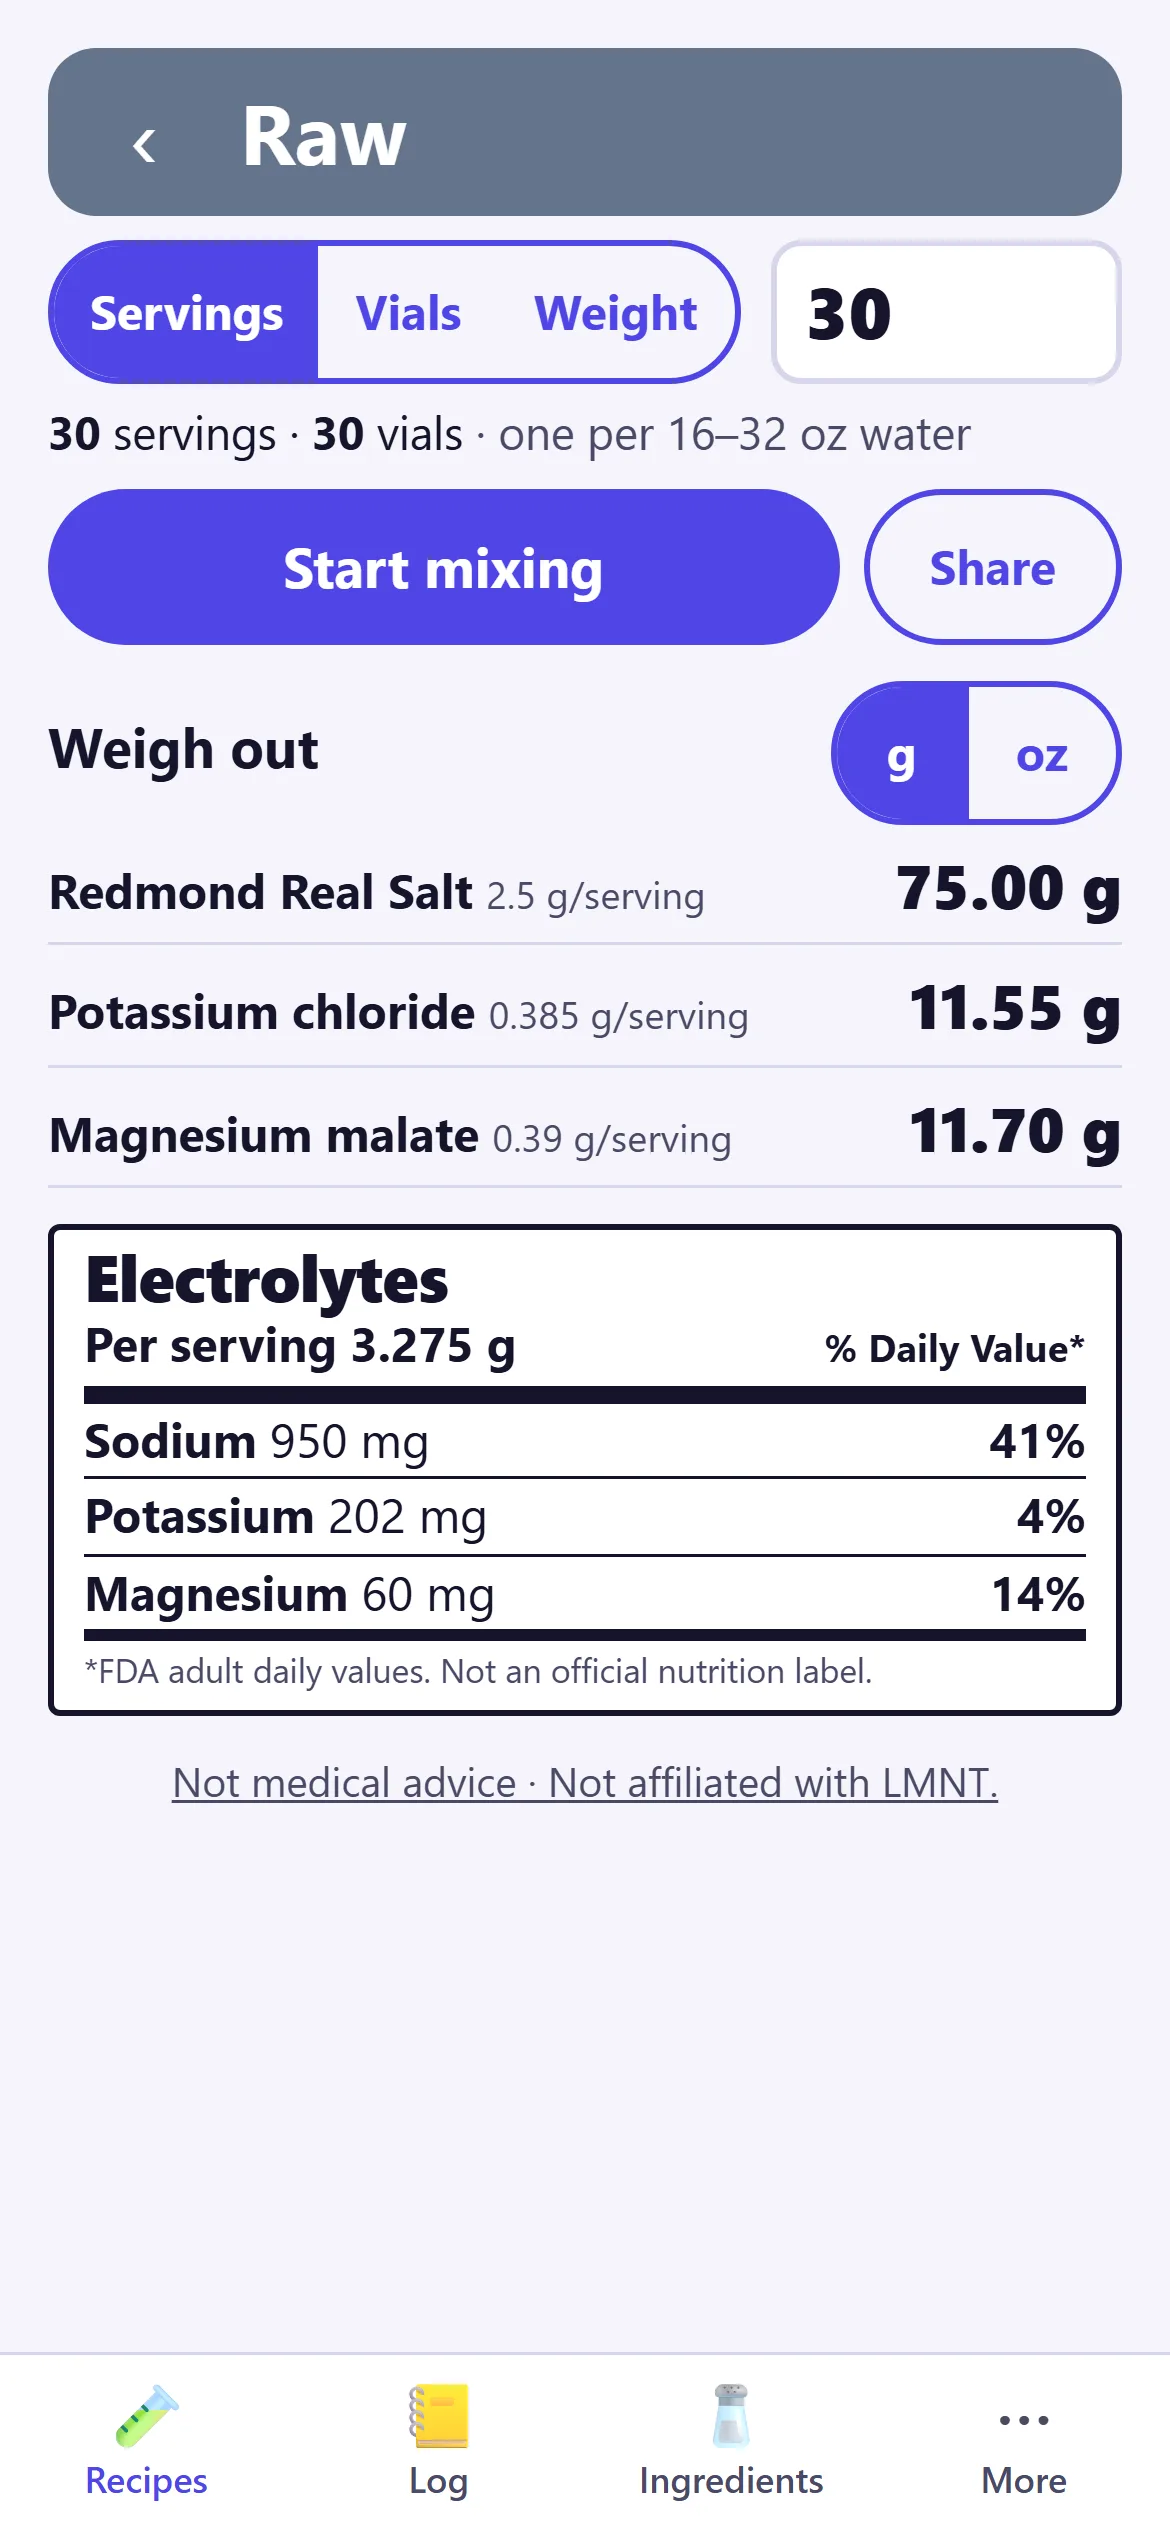
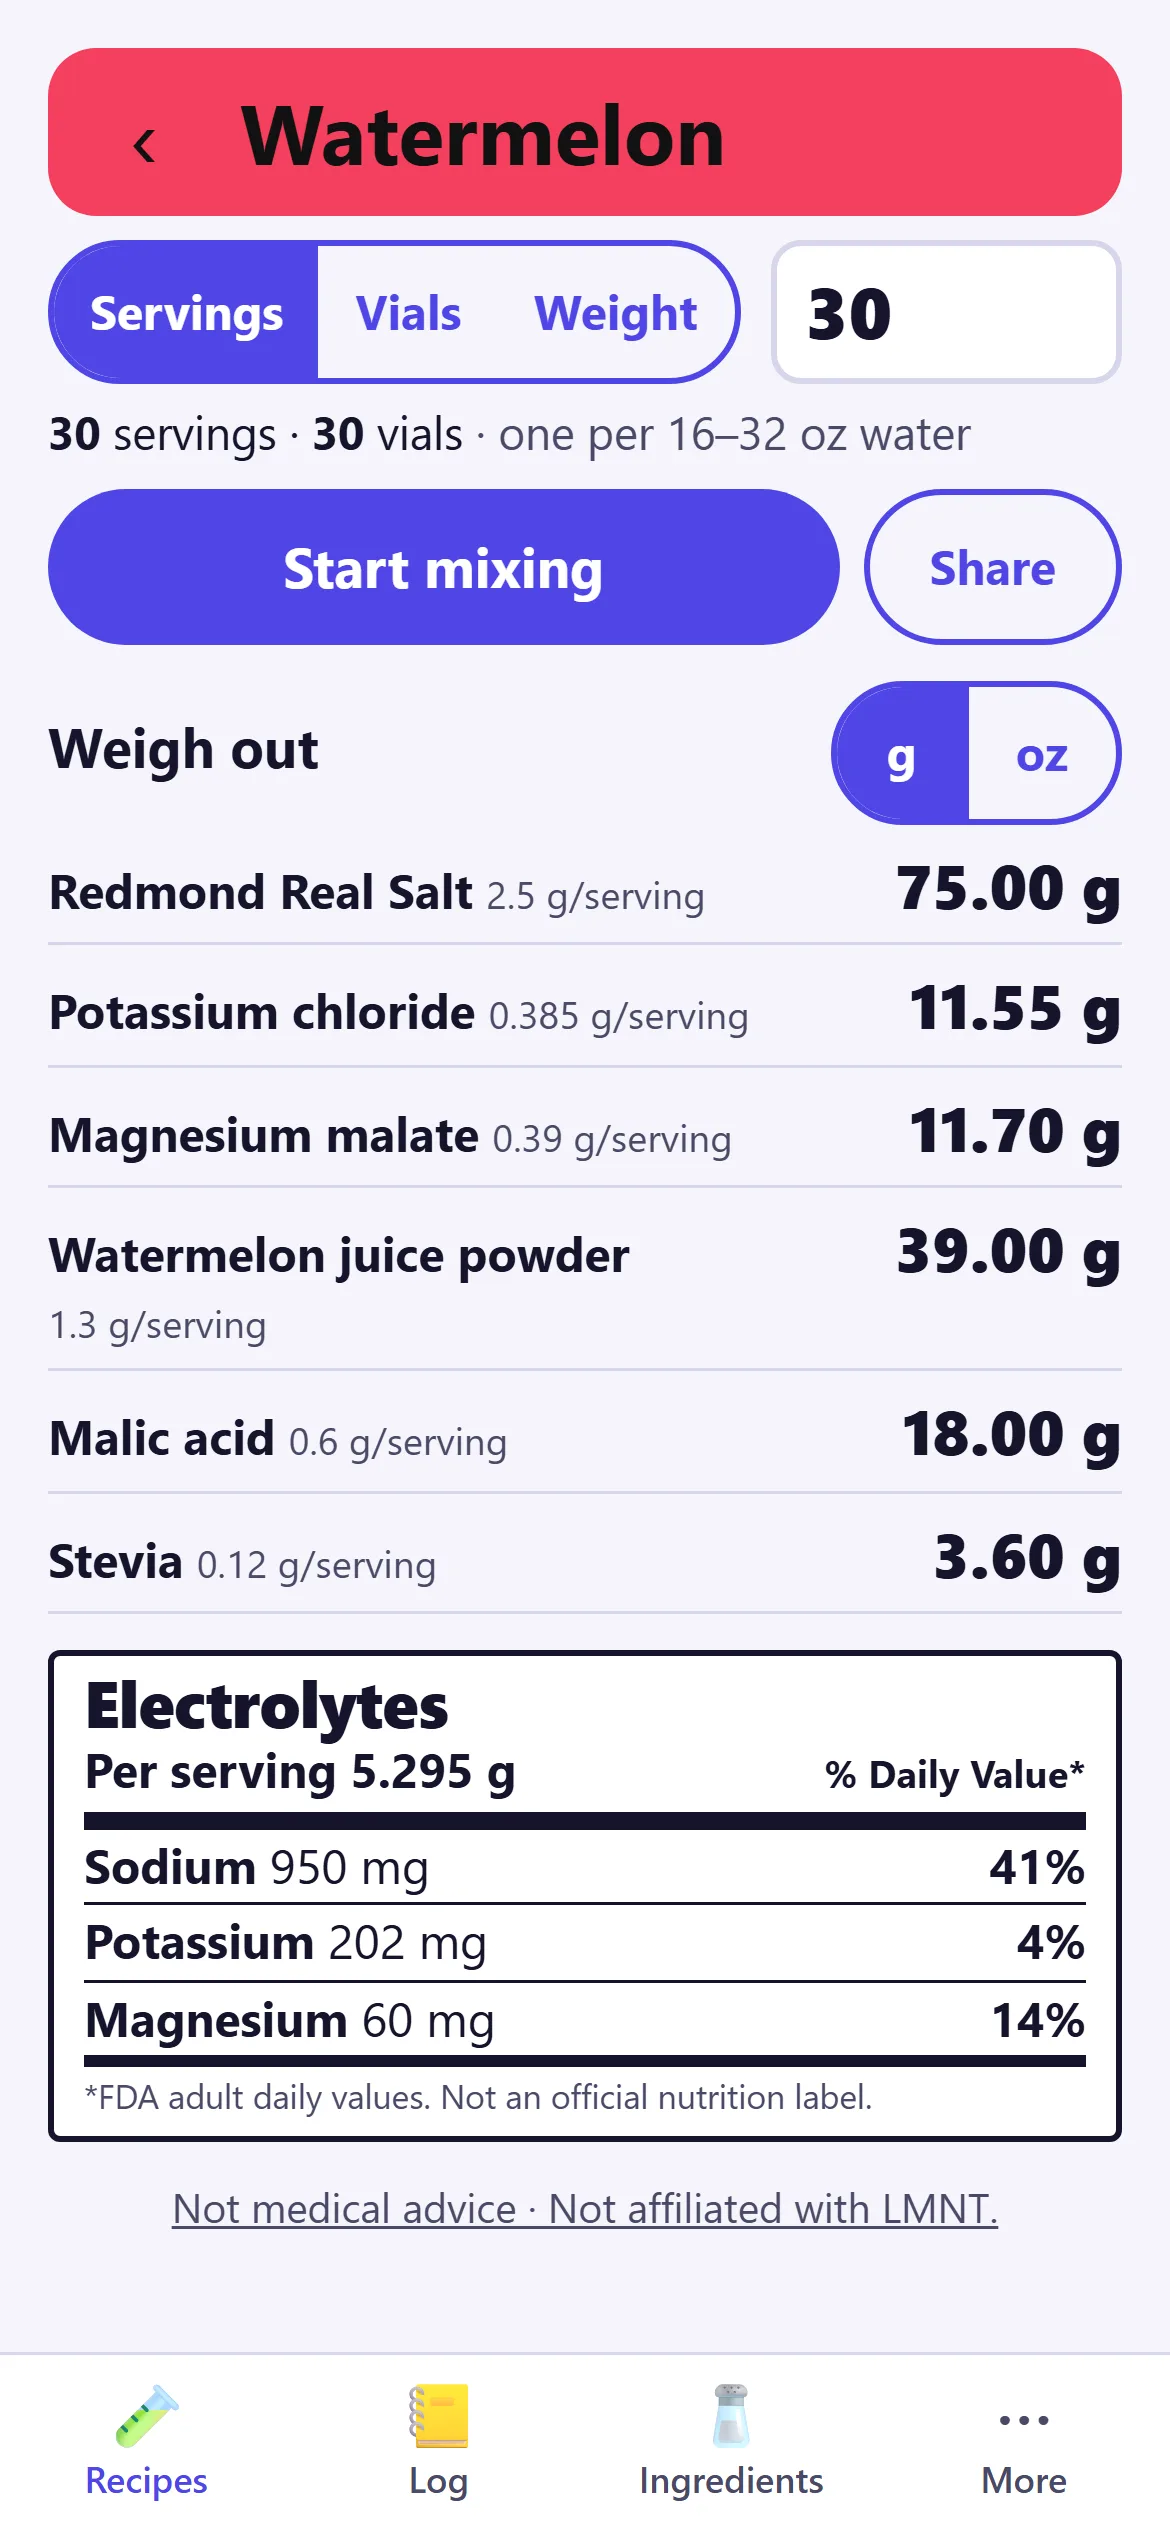
LMNT card: show the Watermelon recipe in the screenshot

Changed region(s): [[0.0308, 0.468, 0.9846, 0.9048], [0.0308, 0.0, 0.9846, 0.0936], [0.9538, 0.6864, 0.9846, 0.8424]]

diff --git a/index.html b/index.html
@@ -246,7 +246,7 @@ permalink: /
         <div class="visual">
           <picture>
             <source srcset="/assets/img/projects/lmnt-recipe-dark.webp" media="(prefers-color-scheme: dark)">
-            <img src="/assets/img/projects/lmnt-recipe-light.webp" width="1170" height="2532" alt="Raw recipe page with batch size, the grams to weigh out and an electrolytes label">
+            <img src="/assets/img/projects/lmnt-recipe-light.webp" width="1170" height="2532" alt="Watermelon recipe page with batch size, the grams to weigh out and an electrolytes label">
           </picture>
         </div>
         <div class="body">
